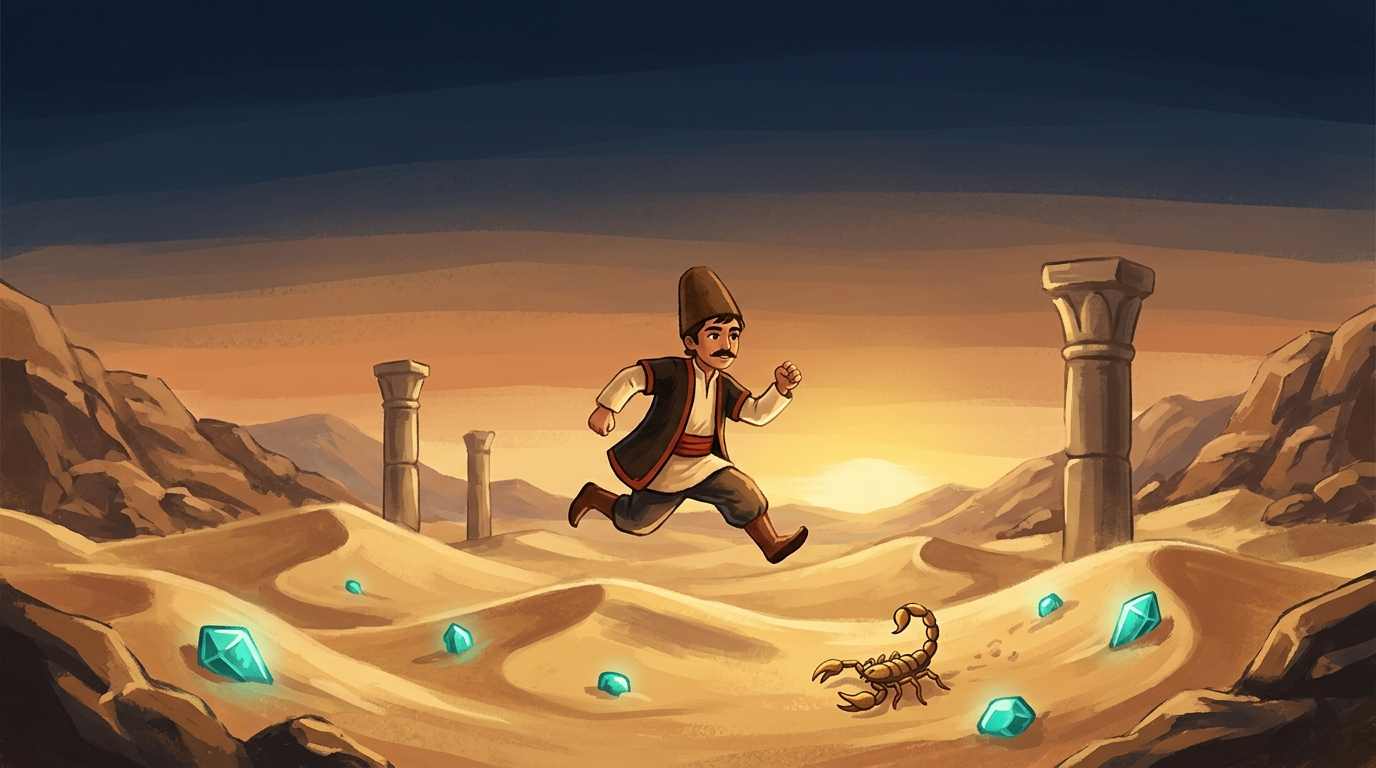
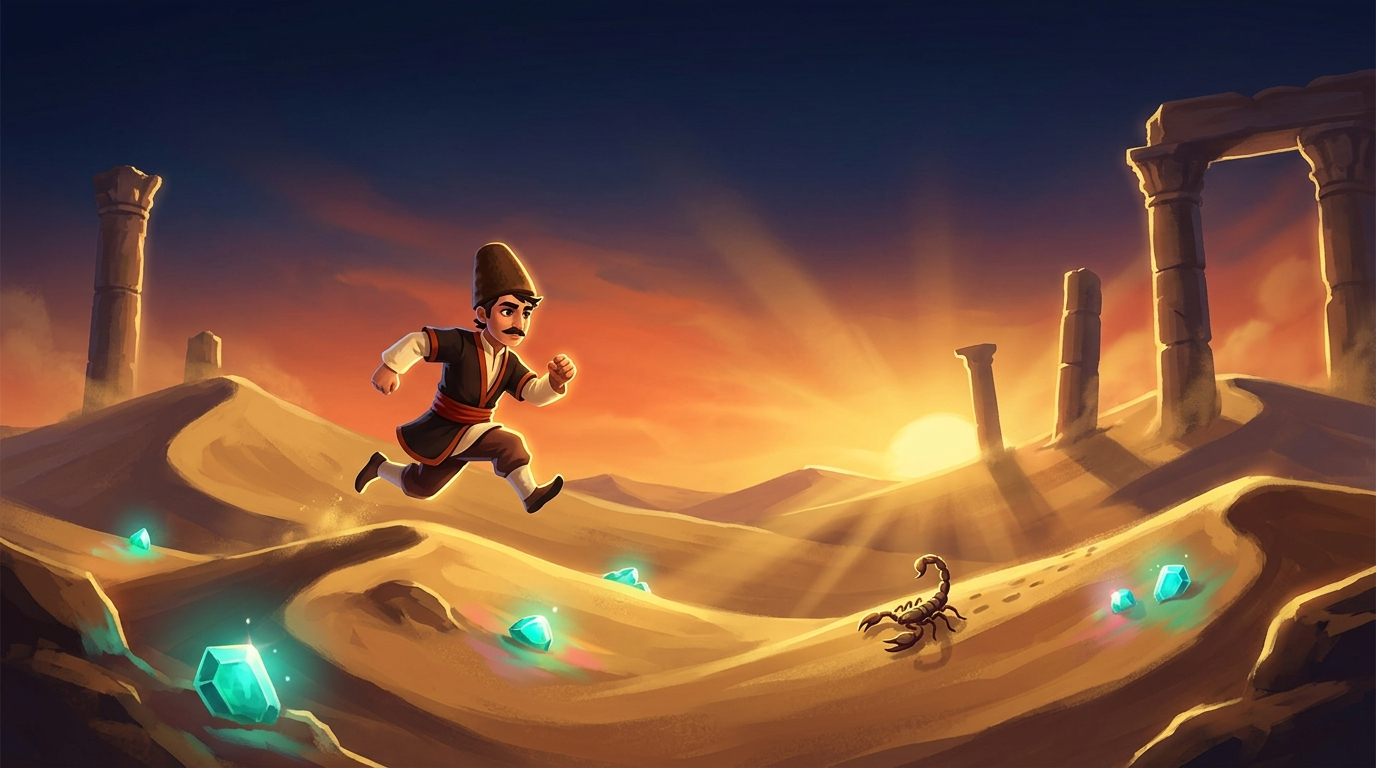
Upgrade game visuals: glow/god-ray sky, particles, richer parallax, new title art
Used Gemini (GEMINI_KEY) to generate premium-style title-art concepts as
visual direction, then implemented the look as canvas rendering code rather
than just swapping in static images:

- Sun now has a soft radial glow halo and slow-rotating god-rays, plus a
  richer multi-stop dusk sky gradient, drifting dust motes, and distant birds.
- Mesa/dune parallax layers get warm rim-light highlights and an atmospheric
  haze band for depth; dunes get a gold rim edge and wind-ripple texture.
- New lightweight particle system: sand-kick dust on jump/land/run, a
  turquoise/gold sparkle burst on coin pickup, and dust puffs on scorpion
  squish and stone impacts.
- Coins get a soft glow halo; the checkpoint flag now has a smoother
  two-curve cloth wave with a woven stripe.
- Added a cinematic radial vignette to frame the scene.
- Replaced assets/title-screen.jpg with a new Gemini-generated "premium
  glow" variant (added as a documented style in generate-cover-art.mjs).

Claude-Session: https://claude.ai/code/session_01QjhEJWR1gwBRYzB4EPbVG6

diff --git a/dunedash.html b/dunedash.html
@@ -412,10 +412,10 @@
   const player = {
     x:0, y:0, w:11, h:14, vx:0, vy:0,
     face:1, onGround:false, coyote:0, jumpBuf:0, held:false,
-    anim:0, dead:0, squash:0, throwCd:0, throwAnim:0
+    anim:0, dead:0, squash:0, throwCd:0, throwAnim:0, stepDust:0
   };
 
-  let coins = [], enemies = [], stones = [], cam = 0, lives = 3, picked = 0;
+  let coins = [], enemies = [], stones = [], particles = [], cam = 0, lives = 3, picked = 0;
   let mode = "title";            // title | play | dead | over | win
   let shake = 0, flagRise = 0, t = 0, runStart = 0;
 
@@ -426,7 +426,7 @@
     player.vx = 0; player.vy = 0;
     player.face = 1; player.dead = 0; player.squash = 0;
     player.onGround = false; player.coyote = 0; player.jumpBuf = 0;
-    player.throwCd = 0; player.throwAnim = 0;
+    player.throwCd = 0; player.throwAnim = 0; player.stepDust = 0;
     cam = 0;
   }
 
@@ -434,6 +434,7 @@
     coins = coinSeed.map(c => ({...c, taken:false}));
     enemies = enemySeed.map(e => ({x:e.x, y:e.y, w:12, h:11, vx:-0.7, squished:0}));
     stones = [];
+    particles = [];
     if (fullReset) {
       lives = 3; picked = 0;
       spawn.x = INITIAL_SPAWN.x; spawn.y = INITIAL_SPAWN.y;
@@ -549,6 +550,23 @@
 
   const overlap = (a,b) => a.x < b.x+b.w && a.x+a.w > b.x && a.y < b.y+b.h && a.y+a.h > b.y;
 
+  // ---------- particles: lightweight sand/spark bits for game feel ----------
+  function spawnParticles(x, y, n, opts) {
+    if (REDUCE_MOTION) return;
+    const { spread = 1.4, upBias = 1.6, life = 20, colors = [COL.sandDark], size = 1.6, gravity = 0.1, shape } = opts || {};
+    for (let i = 0; i < n; i++) {
+      particles.push({
+        x, y,
+        vx: (Math.random()-0.5)*spread*2,
+        vy: -Math.random()*upBias - 0.2,
+        life, maxLife: life,
+        size: size + Math.random()*1.1,
+        color: colors[(Math.random()*colors.length) | 0],
+        gravity, shape
+      });
+    }
+  }
+
   // ---------- update ----------
   function update() {
     t++;
@@ -596,6 +614,7 @@
       player.onGround = false; player.held = true;
       player.squash = -4;
       sfx.play("jump");
+      spawnParticles(player.x + player.w/2, player.y + player.h, 4, {spread:1.1, upBias:1, life:16, colors:[COL.sandDark, COL.sandBody], size:1.3});
     }
     if (!keys.jump && player.vy < CUT_V) player.vy = CUT_V;
 
@@ -604,7 +623,10 @@
     const landed = moveY(player, player.vy);
     if (landed) {
       if (player.vy > 0) {
-        if (!player.onGround) player.squash = Math.min(5, player.vy);
+        if (!player.onGround) {
+          player.squash = Math.min(5, player.vy);
+          spawnParticles(player.x + player.w/2, player.y + player.h, Math.min(7, 3 + (player.vy|0)), {spread:1.7, upBias:1.9, life:20, colors:[COL.sandDark, COL.sandBody], size:1.6});
+        }
         player.onGround = true; player.coyote = COYOTE;
       }
       player.vy = 0;
@@ -614,6 +636,17 @@
     if (player.onGround) player.coyote = COYOTE;
     if (player.squash > 0) player.squash -= 0.6;
     if (player.squash < 0) player.squash += 0.5;
+
+    // running footstep dust
+    if (player.onGround && Math.abs(player.vx) > 0.6) {
+      player.stepDust--;
+      if (player.stepDust <= 0) {
+        player.stepDust = 9;
+        spawnParticles(player.x + (player.face > 0 ? 2 : player.w - 2), player.y + player.h - 1, 2, {spread:0.6, upBias:0.6, life:14, colors:[COL.sandDark], size:1.1, gravity:0.08});
+      }
+    } else {
+      player.stepDust = 0;
+    }
 
     // checkpoints: crossing one on solid ground moves the respawn point up,
     // so a lost life no longer sends you back to the very start of the run
@@ -647,6 +680,7 @@
           player.squash = -3;
           shake = 4;
           sfx.play("squish");
+          spawnParticles(e.x + e.w/2, e.y + e.h, 7, {spread:1.9, upBias:1.7, life:18, colors:[COL.scorpionDark, COL.scorpion], size:1.5});
         } else {
           kill();
           return;
@@ -664,12 +698,26 @@
       s.vy = Math.min(s.vy + STONE_GRAVITY, MAX_FALL);
       s.x += s.vx; s.y += s.vy;
       let gone = hitsTiles(s.x, s.y, s.w, s.h) || s.x < 0 || s.x > LEVEL_W;
+      if (gone) spawnParticles(s.x, s.y, 3, {spread:1, upBias:0.8, life:12, colors:[COL.stoneDark, COL.stone], size:1.2});
       if (!gone) {
         for (const e of enemies) {
-          if (!e.squished && overlap(s, e)) { e.squished = 1; shake = Math.max(shake, 3); gone = true; sfx.play("squish"); break; }
+          if (!e.squished && overlap(s, e)) {
+            e.squished = 1; shake = Math.max(shake, 3); gone = true; sfx.play("squish");
+            spawnParticles(e.x + e.w/2, e.y + e.h, 7, {spread:1.9, upBias:1.7, life:18, colors:[COL.scorpionDark, COL.scorpion], size:1.5});
+            break;
+          }
         }
       }
       if (gone) stones.splice(i, 1);
+    }
+
+    // particles
+    for (let i = particles.length - 1; i >= 0; i--) {
+      const p = particles[i];
+      p.vy += p.gravity;
+      p.x += p.vx; p.y += p.vy;
+      p.life--;
+      if (p.life <= 0) particles.splice(i, 1);
     }
 
     // coins
@@ -678,6 +726,7 @@
       if (Math.abs(c.x - (player.x + player.w/2)) < 11 && Math.abs(c.y - (player.y + player.h/2)) < 12) {
         c.taken = true; picked++; syncHud();
         sfx.play("coin");
+        spawnParticles(c.x, c.y, 9, {spread:2.2, upBias:2.4, life:22, colors:[COL.gold, COL.turquoise, COL.cream], size:1.6, gravity:0.05, shape:"spark"});
       }
     }
 
@@ -723,7 +772,9 @@
   function drawSky() {
     const g = ctx.createLinearGradient(0,0,0,VH);
     g.addColorStop(0, COL.skyTop);
+    g.addColorStop(0.32, "#24345A");
     g.addColorStop(0.55, COL.skyMid);
+    g.addColorStop(0.8, "#C96A3E");
     g.addColorStop(1, COL.skyLow);
     ctx.fillStyle = g;
     ctx.fillRect(0,0,VW,VH);
@@ -736,12 +787,66 @@
       if (tw) ctx.fillRect(sx, sy, 1, 1);
     }
 
-    // sun, low and large — the one loud element
+    // distant birds, drifting slowly across the dusk sky
+    if (!REDUCE_MOTION) {
+      ctx.strokeStyle = "rgba(16,26,46,.5)";
+      ctx.lineWidth = 1;
+      for (let i = 0; i < 3; i++) {
+        const bx = (((i*180 + t*0.15 - cam*0.1) % (VW+60)) + (VW+60)) % (VW+60) - 30;
+        const by = 36 + i*14 + Math.sin(t*0.03 + i)*3;
+        ctx.beginPath();
+        ctx.moveTo(bx, by); ctx.lineTo(bx+5, by-3); ctx.lineTo(bx+10, by);
+        ctx.moveTo(bx+10, by); ctx.lineTo(bx+15, by-3); ctx.lineTo(bx+20, by);
+        ctx.stroke();
+      }
+    }
+
+    // sun, low and large, with a soft glow halo and slow god-rays
     const sx = 352 - cam*0.06, sy = 150;
+
+    const halo = ctx.createRadialGradient(sx, sy, 0, sx, sy, 100);
+    halo.addColorStop(0, "rgba(255,211,78,.55)");
+    halo.addColorStop(0.4, "rgba(255,159,78,.22)");
+    halo.addColorStop(1, "rgba(255,159,78,0)");
+    ctx.fillStyle = halo;
+    ctx.fillRect(sx-100, sy-100, 200, 200);
+
+    if (!REDUCE_MOTION) {
+      ctx.save();
+      ctx.translate(sx, sy);
+      ctx.rotate(t*0.0015);
+      const rayCount = 8;
+      const rg = ctx.createLinearGradient(0,0,120,0);
+      rg.addColorStop(0, "rgba(255,217,158,.16)");
+      rg.addColorStop(1, "rgba(255,217,158,0)");
+      ctx.fillStyle = rg;
+      for (let i = 0; i < rayCount; i++) {
+        ctx.save();
+        ctx.rotate((Math.PI*2/rayCount) * i);
+        ctx.beginPath();
+        ctx.moveTo(0,-3); ctx.lineTo(120,-16); ctx.lineTo(120,16); ctx.lineTo(0,3);
+        ctx.closePath(); ctx.fill();
+        ctx.restore();
+      }
+      ctx.restore();
+    }
+
     ctx.fillStyle = COL.sun;
     ctx.beginPath(); ctx.arc(sx, sy, 34, 0, Math.PI*2); ctx.fill();
+    ctx.fillStyle = "rgba(255,255,255,.5)";
+    ctx.beginPath(); ctx.arc(sx-6, sy-6, 12, 0, Math.PI*2); ctx.fill();
     ctx.fillStyle = "rgba(19,42,69,.35)";
     for (let i = 0; i < 5; i++) ctx.fillRect(sx-40, sy - 12 + i*8, 80, 2);
+
+    // ambient dust motes drifting upward through the light
+    if (!REDUCE_MOTION) {
+      ctx.fillStyle = "rgba(253,236,200,.25)";
+      for (let i = 0; i < 18; i++) {
+        const mx = (((i*53 - cam*0.3 - t*0.1) % (VW+40)) + (VW+40)) % (VW+40) - 20;
+        const my = (((i*41 + 190 - t*0.25) % 140) + 140) % 140 + 90;
+        ctx.fillRect(mx, my, 1, 1);
+      }
+    }
   }
 
   function drawMesas() {
@@ -765,12 +870,34 @@
       const px = ((x + n) % 940 + 940) % 940 - 120;
       ctx.fillRect(px, y, w, h);
       ctx.fillRect(px+14, y-7, w-28, 9);
+      ctx.fillStyle = "rgba(255,197,140,.35)";
+      ctx.fillRect(px+14, y-8, w-28, 2);
+      ctx.fillStyle = COL.mesaNear;
     }
-    // dune band
-    ctx.fillStyle = COL.dune;
+
+    // atmospheric haze — warm horizon glow blending across the mid-ground,
+    // for depth and to tie the parallax layers into the dusk sky above
+    const haze = ctx.createLinearGradient(0, 130, 0, 235);
+    haze.addColorStop(0, "rgba(227,138,79,0)");
+    haze.addColorStop(1, "rgba(227,138,79,.28)");
+    ctx.fillStyle = haze;
+    ctx.fillRect(0, 130, VW, 105);
+
+    // dune band, with a gold rim light and wind-ripple texture
+    const duneGrad = ctx.createLinearGradient(0,232,0,VH);
+    duneGrad.addColorStop(0, "#C98A46");
+    duneGrad.addColorStop(1, COL.dune);
+    ctx.fillStyle = duneGrad;
     ctx.fillRect(0, 232, VW, VH-232);
+    ctx.fillStyle = "rgba(255,211,120,.4)";
+    ctx.fillRect(0, 232, VW, 1);
     ctx.fillStyle = "rgba(27,36,54,.18)";
-    ctx.fillRect(0, 232, VW, 3);
+    ctx.fillRect(0, 233, VW, 2);
+    ctx.fillStyle = "rgba(110,76,36,.22)";
+    for (let i = 0; i < 14; i++) {
+      const rx = (((i*37 - cam*0.6) % (VW+40)) + (VW+40)) % (VW+40) - 20;
+      ctx.fillRect(rx, 244 + (i%3)*7, 18, 1);
+    }
     // woven border stripe along the horizon, echoing a Persian rug edge
     const stripe = [COL.turquoise, COL.cream, COL.rust];
     for (let i = 0; i < Math.ceil(VW/10); i++) {
@@ -859,6 +986,11 @@
     const px = Math.round(c.x - cam), py = Math.round(c.y + Math.sin(t*0.09 + c.x*0.1)*1.6);
     const wob = Math.abs(Math.cos(t*0.06 + c.x*0.05));
     const rw = 3 + wob*3;
+    const glow = ctx.createRadialGradient(px, py, 0, px, py, 10);
+    glow.addColorStop(0, "rgba(255,211,78,.45)");
+    glow.addColorStop(1, "rgba(255,211,78,0)");
+    ctx.fillStyle = glow;
+    ctx.fillRect(px-10, py-10, 20, 20);
     ctx.fillStyle = COL.goldDark;
     ctx.beginPath(); ctx.ellipse(px, py, rw+1, 6, 0, 0, Math.PI*2); ctx.fill();
     ctx.fillStyle = COL.gold;
@@ -919,15 +1051,36 @@
     ctx.fillStyle = COL.pole;
     ctx.fillRect(px+3, py-26, 3, 58);
     const rise = py - 20 - flagRise*22;
-    ctx.fillStyle = COL.flag;
     const flap = Math.sin(t*0.12)*2;
+    const flap2 = Math.sin(t*0.12 + 1.4)*1.4;
+    ctx.fillStyle = COL.flag;
     ctx.beginPath();
     ctx.moveTo(px+6, rise);
-    ctx.lineTo(px+24 + flap, rise+5);
-    ctx.lineTo(px+6, rise+11);
+    ctx.quadraticCurveTo(px+16+flap, rise+2, px+24+flap, rise+5);
+    ctx.quadraticCurveTo(px+16+flap2, rise+8, px+6, rise+11);
     ctx.closePath(); ctx.fill();
     ctx.fillStyle = COL.gold;
     ctx.fillRect(px+6, rise, 18, 1);
+    ctx.fillStyle = COL.cream;
+    ctx.fillRect(px+6, rise+5, 14, 1);
+  }
+
+  function drawParticles() {
+    for (const p of particles) {
+      const a = Math.max(0, p.life / p.maxLife);
+      const px = Math.round(p.x - cam), py = Math.round(p.y);
+      ctx.globalAlpha = a;
+      ctx.fillStyle = p.color;
+      if (p.shape === "spark") {
+        const s = p.size * a + 1;
+        ctx.fillRect(px - s, py, s*2, 1);
+        ctx.fillRect(px, py - s, 1, s*2);
+      } else {
+        const s = p.size * a + 0.4;
+        ctx.fillRect(px - s/2, py - s/2, s, s);
+      }
+      ctx.globalAlpha = 1;
+    }
   }
 
   function drawPlayer() {
@@ -1015,6 +1168,7 @@
     for (const s of stones) drawStoneShot(s);
     drawFlag();
     if (mode !== "over") drawPlayer();
+    drawParticles();
 
     // dusk vignette
     const v = ctx.createLinearGradient(0,0,0,VH);
@@ -1022,6 +1176,12 @@
     v.addColorStop(0.5,"rgba(19,42,69,0)");
     v.addColorStop(1,"rgba(19,42,69,.28)");
     ctx.fillStyle = v; ctx.fillRect(0,0,VW,VH);
+
+    // cinematic corner vignette, to frame the scene like the title art
+    const vg = ctx.createRadialGradient(VW/2,VH/2,VH*0.35,VW/2,VH/2,VH*0.9);
+    vg.addColorStop(0,"rgba(8,10,20,0)");
+    vg.addColorStop(1,"rgba(8,10,20,.35)");
+    ctx.fillStyle = vg; ctx.fillRect(0,0,VW,VH);
 
     ctx.restore();
   }
